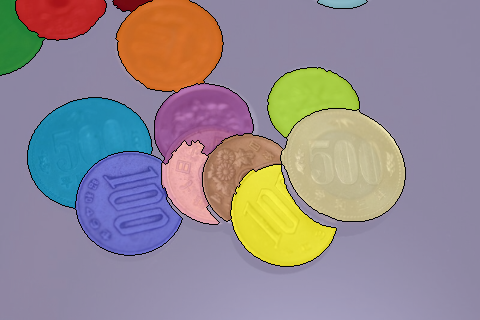
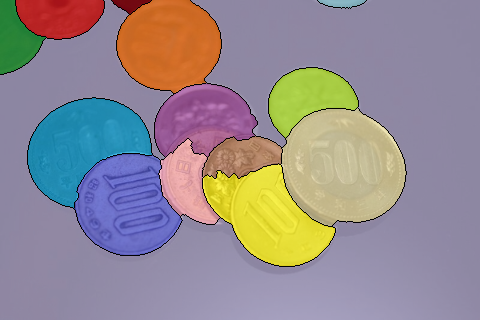
🤔

diff --git a/HW4/110590004_hw4.py b/HW4/110590004_hw4.py
@@ -129,7 +129,7 @@ class Q:
                     return np.sqrt(gx ** 2 + gy ** 2)
 
                 def priority(x, y, image, group_mean_color):
-                    neighbors = get_n_neighbors(image, x, y, 1)
+                    neighbors = get_n_neighbors(image, x, y, 3)
                     # Only consider labeled neighbors
                     colors = [image[n[0], n[1]] for n in neighbors]
 
@@ -144,8 +144,8 @@ class Q:
 
                     # Adjust weights for each component based on your image specifics and desired segmentation sharpness
                     # priority_value = 0.5 * color_distance + 0.5 * color_variance + 0.1 * group_distance + 0.1 * sobel(x, y, image)
-                    priority_value = 1 * sobel(
-                        x, y, image) + 0.5 * color_distance + 1 * color_variance
+                    priority_value = 0.5 * sobel(
+                        x, y, image) + 1* color_distance + 0.5 * color_variance
                     # print(priority_value, sobel(x, y, image), color_distance,
                     #       color_variance, group_distance)
                     return priority_value
